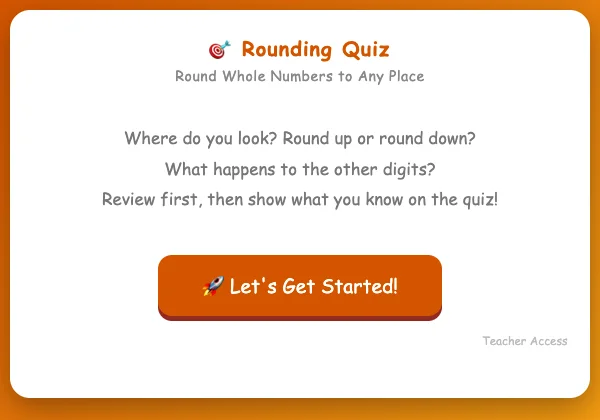
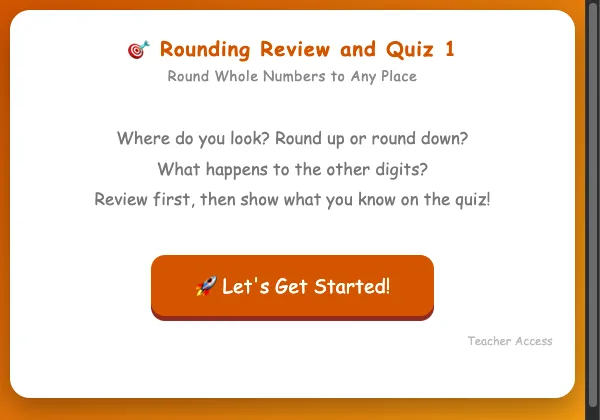
feat: Rounding Review and Quiz 2 card (Coming Soon); rename Quiz 1 card

diff --git a/index.html b/index.html
@@ -365,6 +365,18 @@
             </div>
         </a>
 
+        <!-- LOCKED until Marcos opens it: grayed out; site allows Teacher Access only. To open: remove card-locked + the lock badge, and set PRACTICE_OPEN / REVIEW_OPEN / QUIZ_OPEN = true in math-rounding-quiz-2/script.js -->
+        <a href="https://molivera1977.github.io/math-rounding-quiz-2/" class="card card-locked" target="_blank" title="Not open yet">
+            <div class="card-image">
+                <img loading="lazy" src="images/math-rounding-quiz-2.webp" alt="Rounding Review and Quiz 2">
+            </div>
+            <div class="card-content">
+                <div class="card-title">Rounding Review and Quiz 2</div>
+                <span class="card-tag">Math</span>
+                <span class="lock-badge">🔒 Coming Soon</span>
+            </div>
+        </a>
+
         <a href="https://molivera1977.github.io/a-world-of-change-review/" class="card" target="_blank">
             <div class="card-image">
                 <img loading="lazy" src="images/awoc-review-2026.webp" alt="A World of Change Review">
@@ -377,10 +389,10 @@
 
         <a href="https://molivera1977.github.io/math-rounding-quiz/" class="card" target="_blank">
             <div class="card-image">
-                <img loading="lazy" src="images/math-rounding-quiz.webp" alt="Rounding Quiz">
+                <img loading="lazy" src="images/math-rounding-quiz.webp?v=rq1" alt="Rounding Review and Quiz 1">
             </div>
             <div class="card-content">
-                <div class="card-title">Rounding Quiz</div>
+                <div class="card-title">Rounding Review and Quiz 1</div>
                 <span class="card-tag">Math</span>
             </div>
         </a>
